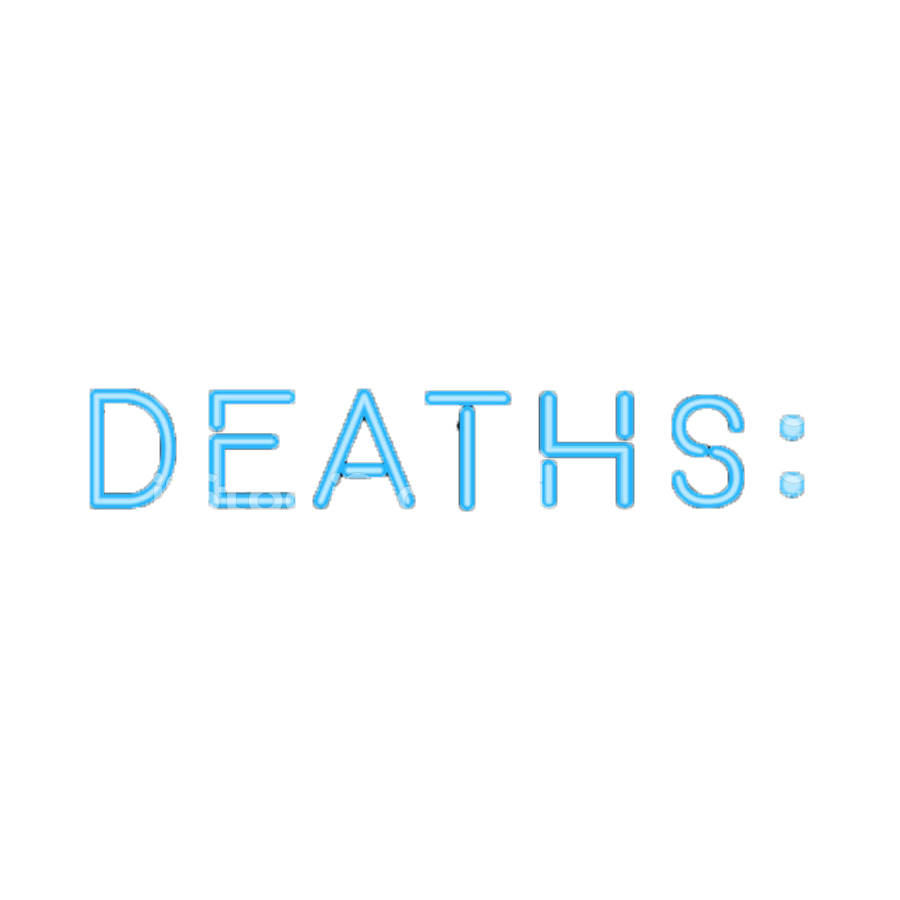
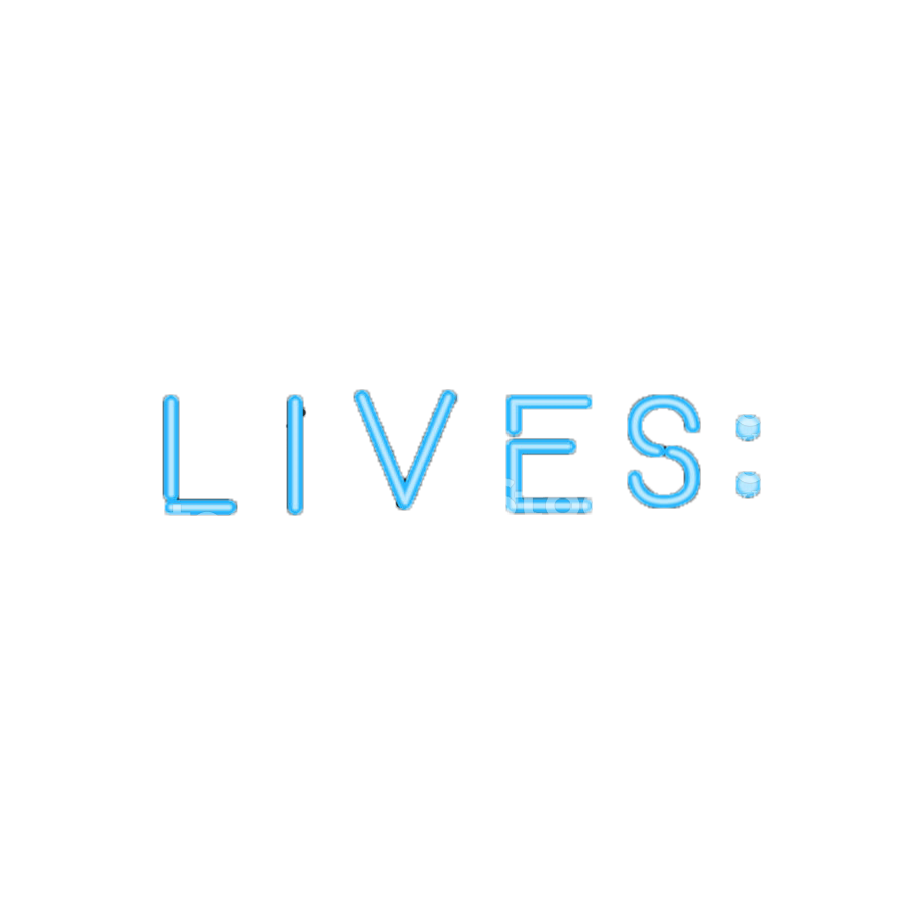
updated pictures of lives

Changed region(s): [[0.0933, 0.4044, 0.9022, 0.5911]]

diff --git a/main.js b/main.js
@@ -34,7 +34,7 @@ function initializeApp() {
     turnHighlight();
     deathCounter();
     $(".reset").click(reset);
-  
+
 }
 
 
@@ -376,6 +376,7 @@ function jump() {
     }
     turnHighlight();
     $(".gameBoard div").removeClass("highlight");
+    checkWin();
     // change flag for checkPawnOrKing function
     jumpPosition = null;
 }

diff --git a/game.html b/game.html
@@ -33,7 +33,7 @@
 
         <div class="player right">
             <div class="tokensTaken">
-                    <img src="img/deaths2.png">
+                    <img src="img/counter2.png">
                     <div class="counterRight"></div>
             </div>
             <div class="avatar">
